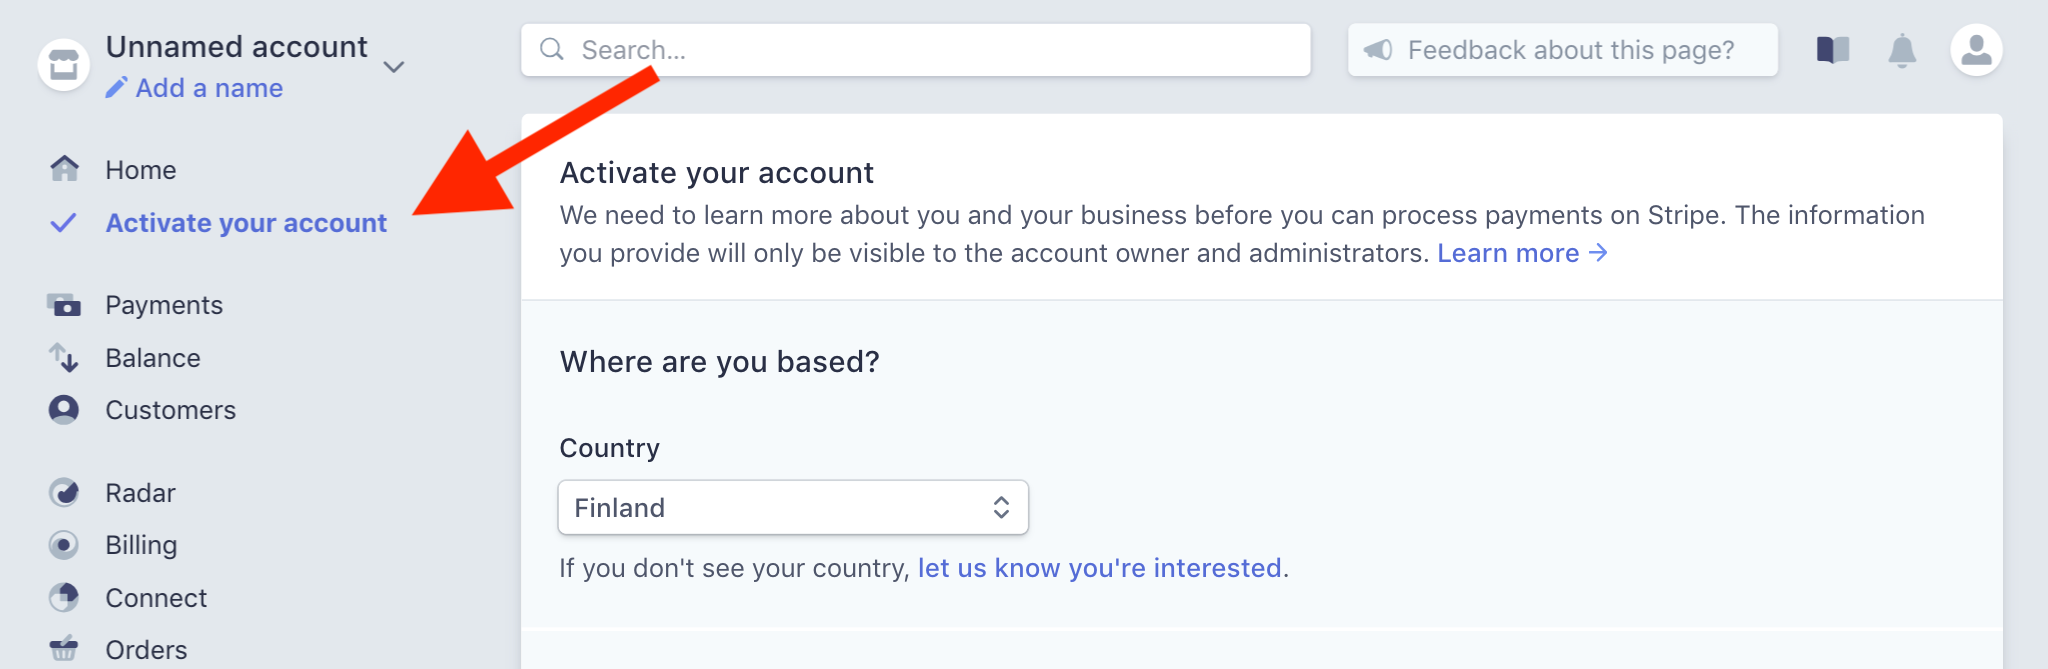
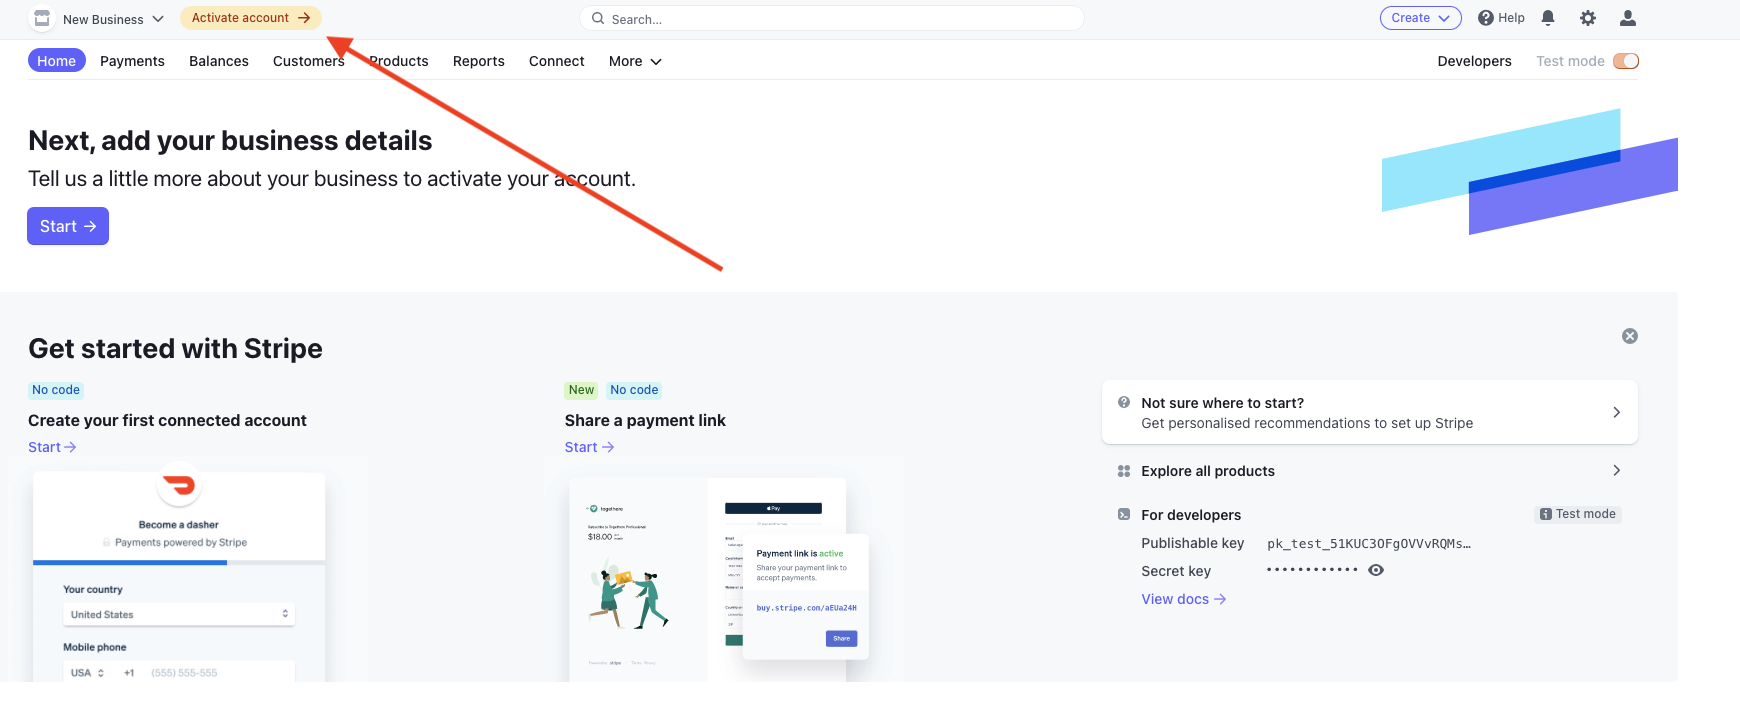
Change section1 screenshot1 in set-up-and-use-stripe

diff --git a/src/docs/cookbook-payments/set-up-and-use-stripe/index.md b/src/docs/cookbook-payments/set-up-and-use-stripe/index.md
@@ -22,7 +22,7 @@ your email address after the registration.
 As you will receive money from your users via your Stripe account, you
 have to provide some details such as your address and your bank account.
 In the Stripe dashboard, click the "Activate your account" link in the
-left menu and fill in all the fields according to the instructions. The
+top bar and fill in all the fields according to the instructions. The
 activation form varies based on your country.
 
 ![Activate Stripe account](./activate-account.png)
